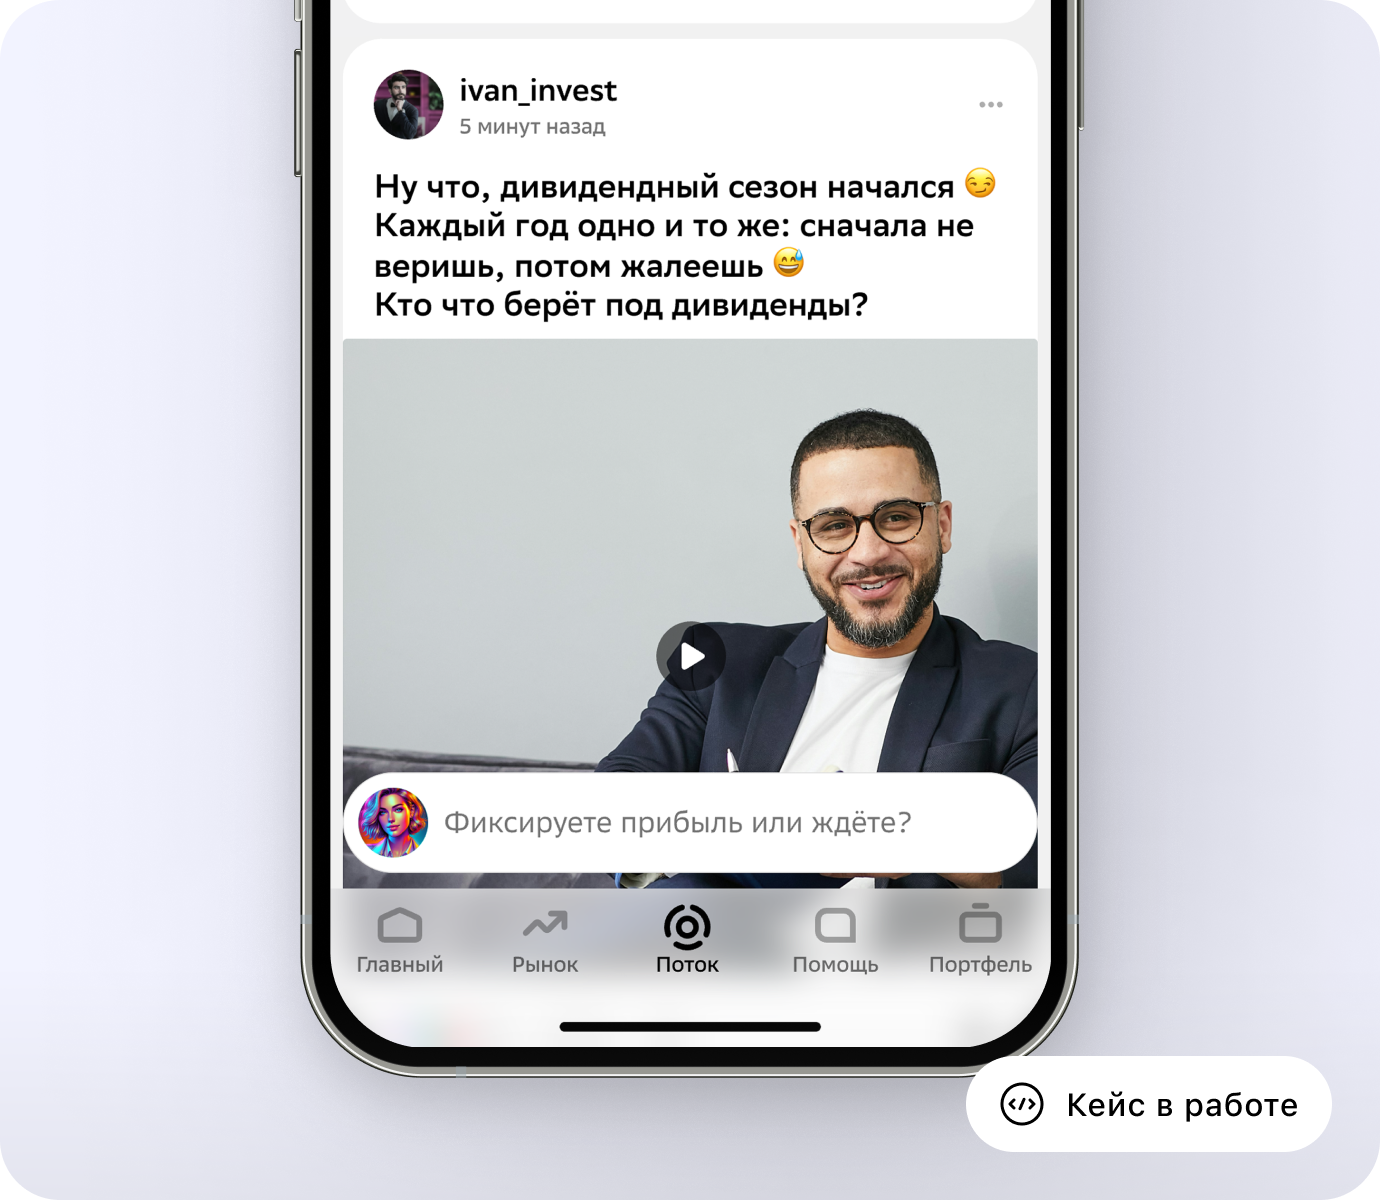
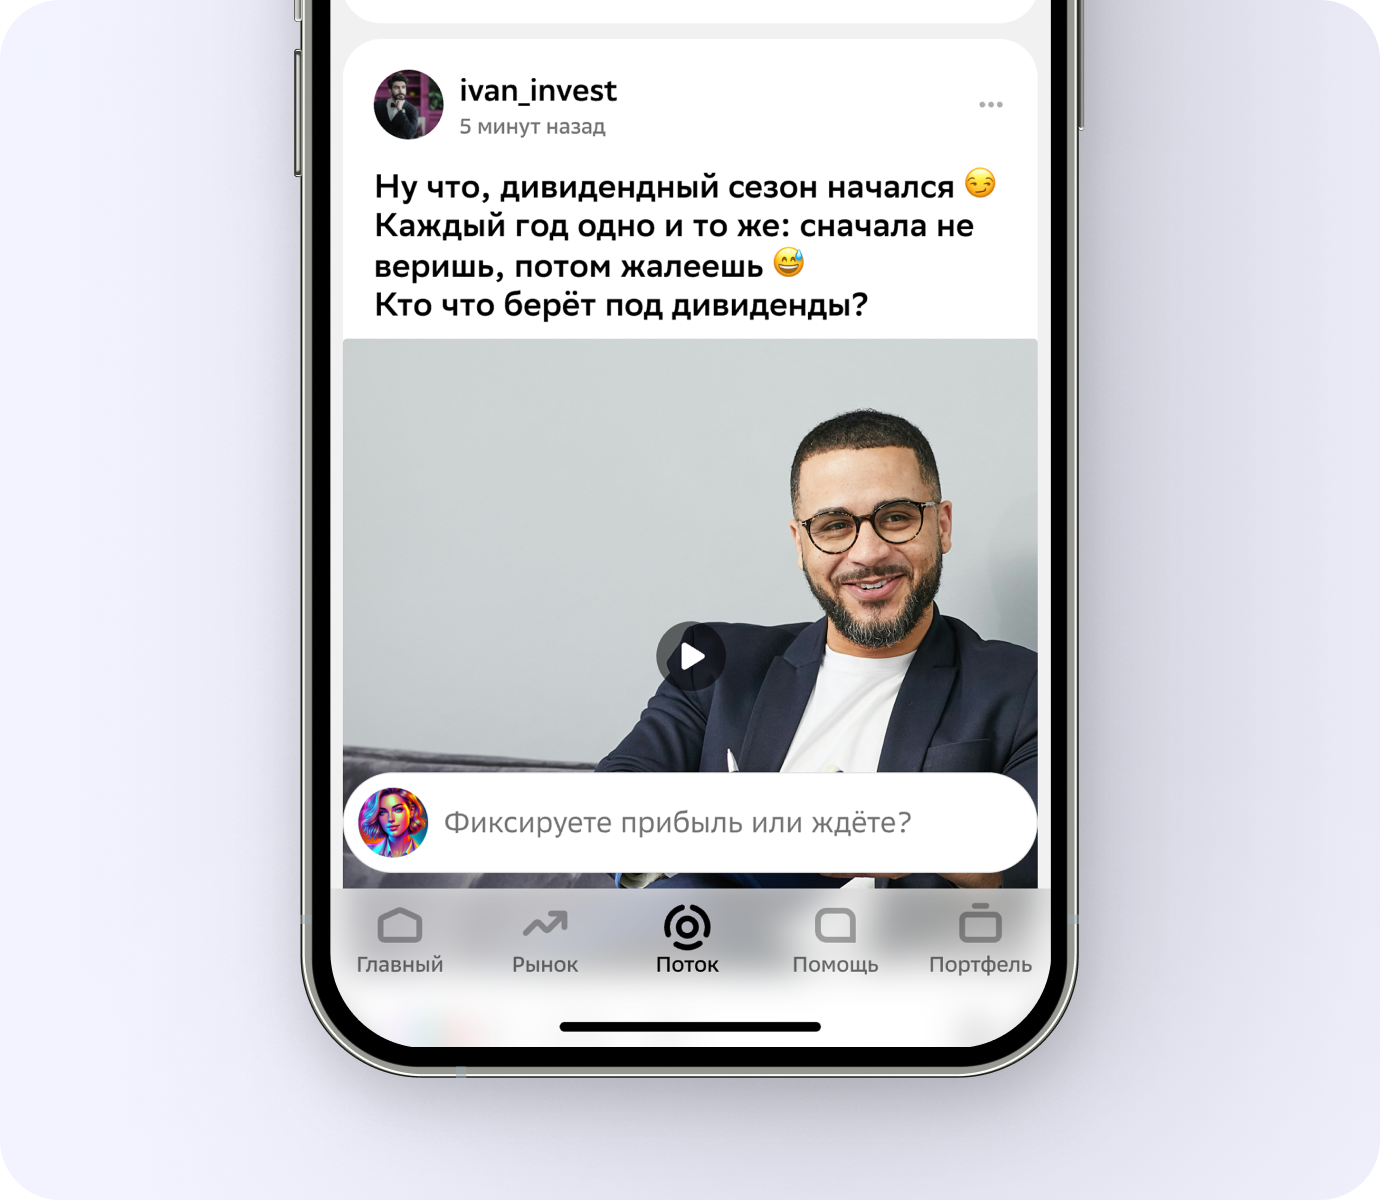
Added second case study

Changed region(s): [[0.6855, 0.8633, 0.9348, 0.9867]]

diff --git a/src/data/cases.ts b/src/data/cases.ts
@@ -3,7 +3,7 @@ export type CaseSection =
       type: "hero";
       summary: string;
     }
-    | {
+  | {
       type: "results";
       title: string;
       items: Array<{
@@ -29,9 +29,9 @@ export type CaseSection =
         text: string;
       }>;
       image: string;
-      imageFull: string;
+      imageFull?: string;
     }
-    | {
+  | {
       type: "hypotheses";
       title: string;
       blocks: Array<
@@ -48,14 +48,14 @@ export type CaseSection =
           }
       >;
     }
-    | {
+  | {
       type: "solution";
       title: string;
       leftCards: Array<{ title: string; text: string }>;
       image: string;
       rightCards: Array<{ title: string; text: string }>;
     }
-    | {
+  | {
       type: "why";
       image: string;
     }
@@ -79,11 +79,9 @@ export type CaseStudy = {
 export const cases: CaseStudy[] = [
   {
     slug: "sber-feed-and-social",
-
     title: "Новостная лента и социальные механики",
     company: "Сбер Инвестиции",
     tags: ["iOS", "Android", "B2C", "Fintech", "2025"],
-
     heroImage: "/cases/sber-feed-hero.png",
 
     sections: [
@@ -93,15 +91,15 @@ export const cases: CaseStudy[] = [
         items: [
           {
             label: "Полный цикл",
-            description: "от бенчмаркинга до готовых к разработке спецификаций",
+            description: "от бенчмаркинга до готовых к разработке спецификаций",
           },
           {
             label: "Этап тестирования",
-            description: "запустили продукт на тестовый контур",
+            description: "запустили продукт на тестовый контур",
           },
           {
             label: "Редизайн",
-            description: "обновила интерфейс и улучшила UX",
+            description: "обновила интерфейс и улучшила UX",
           },
         ],
         image: "/cases/sber-feed-results.png",
@@ -157,14 +155,14 @@ export const cases: CaseStudy[] = [
             title: "Гипотезы",
             scenarios: [
               {
-                text: "Если добавить социальные механики и вариативный контент",
+                text: "Если добавить социальные механики и вариативный контент",
                 bullets: [
                   "пользователи будут чаще взаимодействовать с лентой",
                   "увеличится глубина просмотра",
                 ],
               },
               {
-                text: "Если пользователи чаще читают и обсуждают новости",
+                text: "Если пользователи чаще читают и обсуждают новости",
                 bullets: [
                   "они лучше понимают рынок",
                   "чаще принимают инвестиционные решения",
@@ -187,6 +185,7 @@ export const cases: CaseStudy[] = [
           },
         ],
       },
+
       {
         type: "gallery",
         images: ["/cases/sber-feed-hypothesis.png"],
@@ -195,60 +194,227 @@ export const cases: CaseStudy[] = [
       {
         type: "solution",
         title: "Решение",
-      
         leftCards: [
           {
             title: "Персонализация",
-            text: "Добавлены карточки с контентом: фото, смешанные галереи",
+            text: "Добавлены карточки с контентом: фото, смешанные галереи",
           },
           {
             title: "Социальные механики",
             text: "Внедрен просмотрщик изображений и видео",
           },
         ],
-      
         image: "/cases/sber-feed-solution.png",
-      
         rightCards: [
           {
             title: "Новая структура",
-            text: "Добавлены действия к постам",
+            text: "Добавлены действия к постам",
           },
           {
             title: "Интерактив",
-            text: "Переработаны акценты и иерархия контента",
+            text: "Переработаны акценты и иерархия контента",
           },
           {
             title: "Retention",
-            text: "Реализованы реакции, комментарии и обсуждения",
+            text: "Реализованы реакции, комментарии и обсуждения",
           },
         ],
       },
+
       {
         type: "why",
         image: "/cases/sber-feed-why.png",
       },
+
       {
         type: "results",
         title: "Результаты",
         items: [
           {
             label: "Полный цикл",
-            description: "от бенчмаркинга до готовых к разработке спецификаций",
+            description: "от бенчмаркинга до готовых к разработке спецификаций",
           },
           {
             label: "Этап тестирования",
-            description: "запустили продукт на тестовый контур",
+            description: "запустили продукт на тестовый контур",
           },
           {
             label: "Редизайн",
-            description: "Обновила интерфейс и улучшила UX",
+            description: "Обновила интерфейс и улучшила UX",
           },
         ],
       },
+
       {
         type: "gallery",
         images: ["/cases/sber-feed-end.png"],
+      },
+
+      {
+        type: "navigation",
+      },
+    ],
+  },
+
+  // ✅ ВОТ ТВОЙ ВТОРОЙ КЕЙС — ПРАВИЛЬНО ВСТАВЛЕН В МАССИВ
+
+  {
+    slug: "sber-post-entry-v2",
+    title: "Точка входа в написание поста",
+    company: "Сбер Инвестиции",
+    tags: ["iOS", "Android", "B2C", "FinTech", "2025"],
+    heroImage: "/cases/sber-post-entry-hero.png",
+
+    sections: [
+      {
+        type: "results",
+        title: "Результаты",
+        items: [
+          {
+            label: "Новые фичи",
+            description: "повышение вовлеченности",
+          },
+          {
+            label: "Этап тестирования",
+            description: "запустили продукт на тестовый контур",
+          },
+          {
+            label: "UI-kit",
+            description: "наполнение ДС новыми компонентами, иконками",
+          },
+        ],
+        image: "/cases/sber-post-entry-results.png",
+      },
+
+      {
+        type: "context",
+        title: "Контекст",
+        subtitle: [
+          { text: "Раздел должен ", highlight: false },
+          { text: "формировать сообщество ", highlight: true },
+          { text: "инвесторов внутри продукта", highlight: false },
+        ],
+        image: "/cases/sber-post-entry-context.png",
+      },
+
+      {
+        type: "problem",
+        title: "Проблематика",
+        cards: [
+          {
+            title: "Слабая структура",
+            text: "нет пользовательской активности",
+          },
+          {
+            title: "Теряем пользователей",
+            text: "нет простого сценария для создания собственных постов",
+          },
+          {
+            title: "Нет активности",
+            text: "отсутствие мотивации делиться опытом",
+          },
+          {
+            title: "Низкое вовлечение",
+            text: "лента выглядит “как новостной агрегатор”",
+          },
+        ],
+        image: "/cases/sber-post-entry-problem.png",
+
+      },
+
+      {
+        type: "hypotheses",
+        title: "Гипотезы",
+        blocks: [
+          {
+            title: "Гипотезы",
+            scenarios: [
+              {
+                text: "Если добавить простой вход и персонализированные триггеры",
+                bullets: ["увеличится количество новых постов"],
+              },
+              {
+                text: "Если пользователи видят опытных инвесторов",
+                bullets: ["растет доверие", "снижается страх к инвестированию"],
+              },
+            ],
+          },
+          {
+            title: "Метрики",
+            bullets: [
+              "Количество созданных постов",
+              "Conversion в создание поста",
+              "Частота публикаций",
+              "Доля активных авторов",
+              "Повторные инвестиции",
+              "Конверсия в покупку после взаимодействия с постом",
+            ],
+          },
+        ],
+      },
+
+      {
+        type: "gallery",
+        images: ["/cases/sber-post-entry-hypothesis.png"],
+      },
+
+      {
+        type: "solution",
+        title: "Решение",
+        leftCards: [
+          {
+            title: "Точка входа",
+            text: "Добавлена закреплённая точка входа в создание поста",
+          },
+          {
+            title: "Персонализация",
+            text: "Предложена гипотеза персонализированных подсказок (например: «как прошла сделка?»)",
+          },
+        ],
+        image: "/cases/sber-post-entry-solution.png",
+        rightCards: [
+          {
+            title: "Редактирование",
+            text: "Добавлено редактирование постов через меню",
+          },
+          {
+            title: "Доступ",
+            text: "Реализована логика доступа: действия доступны после создания соц-профиля (ограничения)",
+          },
+          {
+            title: "Интеграция",
+            text: "Продумано поведение нового компонента при взаимодействии с новостной лентой",
+          },
+        ],
+      },
+
+      {
+        type: "why",
+        image: "/cases/sber-post-entry-why.png",
+      },
+
+      {
+        type: "results",
+        title: "Результаты",
+        items: [
+          {
+            label: "Новые фичи",
+            description: "повышение вовлеченности",
+          },
+          {
+            label: "Этап тестирования",
+            description: "запустили продукт на тестовый контур",
+          },
+          {
+            label: "UI-kit",
+            description: "наполнение ДС новыми компонентами, иконками",
+          },
+        ],
+      },
+
+      {
+        type: "gallery",
+        images: ["/cases/sber-post-entry-end.png"],
       },
 
       {

diff --git a/src/app/page.tsx b/src/app/page.tsx
@@ -100,7 +100,7 @@ export default function Page() {
           subtitle="Новостная лента и социальные механики (B2C • FinTech)"
         />
         <CaseCard
-          slug="sber-post-entry"
+          slug="sber-post-entry-v2"
           img="/cases/sber-2.png"
           title="Редизайн Сбер Инвестиции"
           subtitle="Точка входа в написание поста (B2C • FinTech)"

diff --git a/src/app/cases/[slug]/CaseClient.tsx b/src/app/cases/[slug]/CaseClient.tsx
@@ -249,11 +249,13 @@ function renderSection(section: CaseSection, slug: string) {
 
         <div className="mt-[60px]" />
 
-        <img
-          src={section.imageFull}
-          className="w-full rounded-[30px]"
-          alt="problem-2"
-        />
+        {section.imageFull && (
+  <img
+    src={section.imageFull}
+    className="w-full rounded-[30px]"
+    alt="problem-2"
+  />
+)}
 
       </section>
     );
